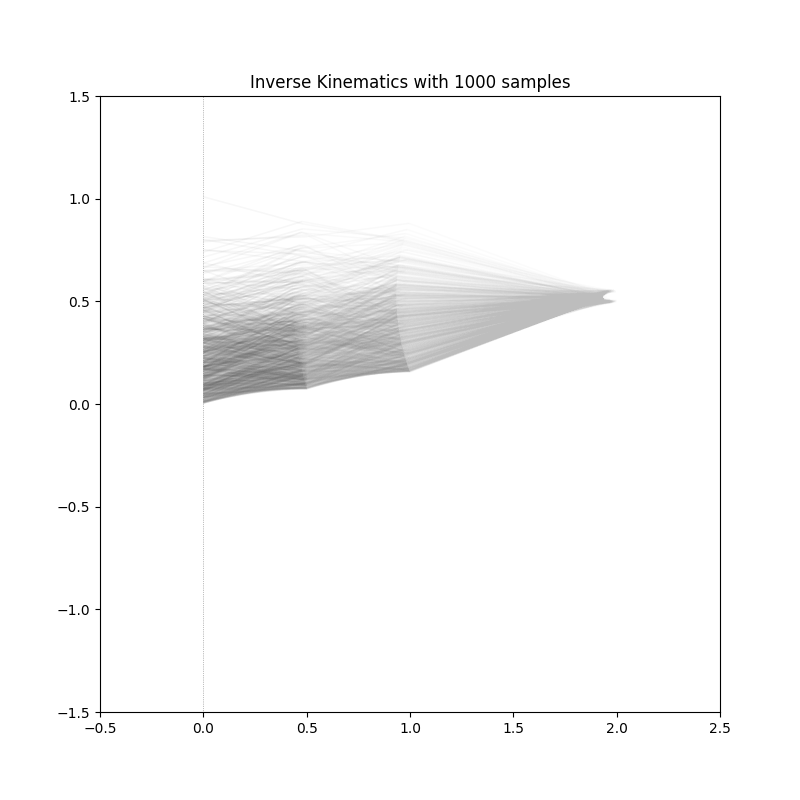
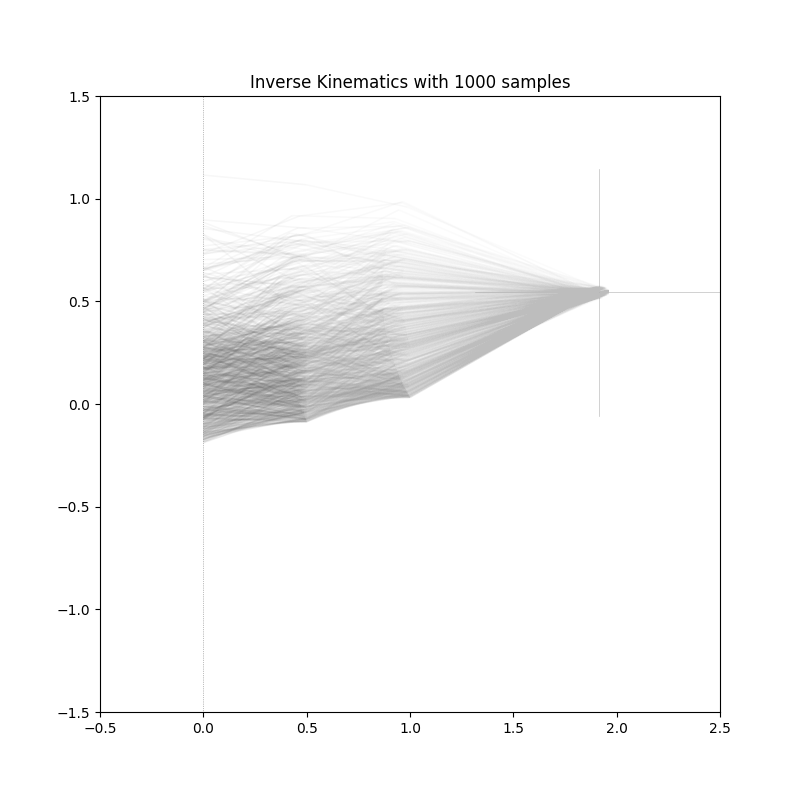
Update readme with updated inverse visualization

Changed region(s): [[0.25, 0.3125, 0.6562, 0.5625], [0.7188, 0.3438, 0.75, 0.4062]]

diff --git a/README.md b/README.md
@@ -6,8 +6,3 @@
 Forward             |  Inverse
 :-------------------------:|:-------------------------:
 ![](img/forward.png)  |  ![](img/inverse.png)
-
-
-### Previous:
-
-Base from [github](https://github.com/Kartik17/Robotic_Arm), work in progress. Uses the modified DH (Denvavit Hartenberg) [convention](http://www-scf.usc.edu/~csci545/slides/Lect5_Forward-InverseKinematicsII_Short.pdf) as used in introduction to robotics by Craig. Alternatively the kinematics used in INN paper can be used, code on [their github](https://github.com/VLL-HD/inn_toy_data/blob/master/kinematics.py).
